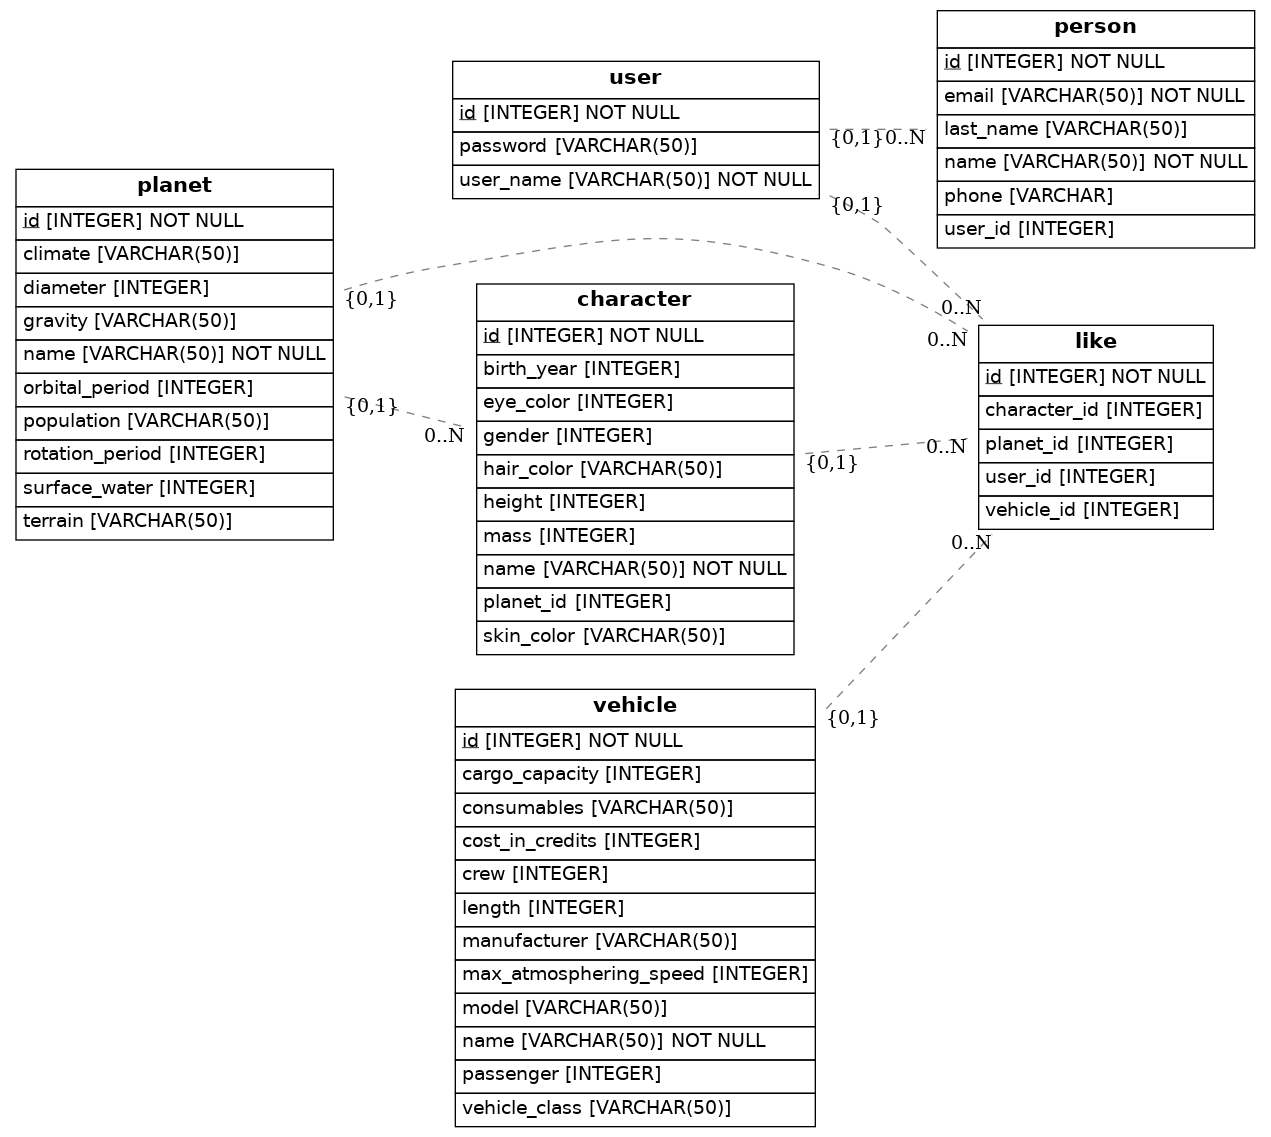
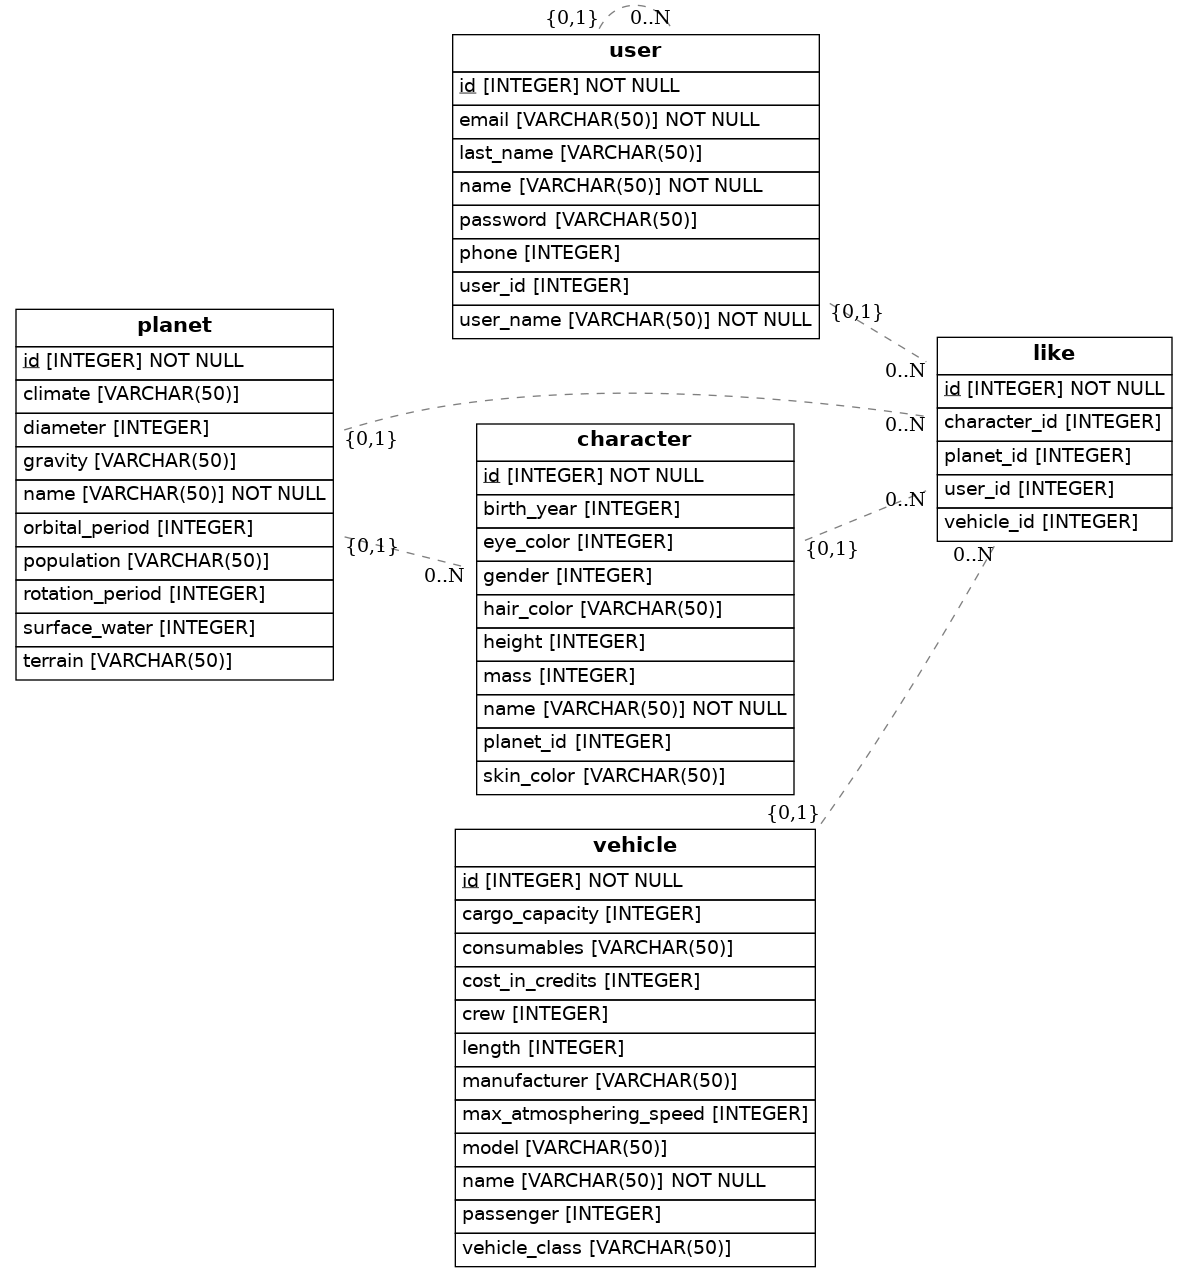
integrated user with person table

Changed region(s): [[0.3426, 0.0, 0.9966, 1.0], [0.0, 0.1539, 0.3114, 0.5233], [0.7475, 0.4617, 0.7786, 0.4925]]

diff --git a/src/models.py b/src/models.py
@@ -26,13 +26,11 @@ class User(Base):
     password = Column(String(50))
     person = relationship('Person',backref='user',lazy=True)
     like = relationship('Like',backref='user',lazy=True)
-class Person(Base):
-    __tablename__ = 'person'
-    id = Column(Integer, primary_key=True)
     name = Column(String(50), nullable=False)
     last_name = Column(String(50))
     email = Column(String(50),nullable=False)
-    phone = Column(String) 
+    phone = Column(Integer) 
+    
     user_id= Column(Integer, ForeignKey('user.id')) 
 class Planet(Base):
     __tablename__ = 'planet'
